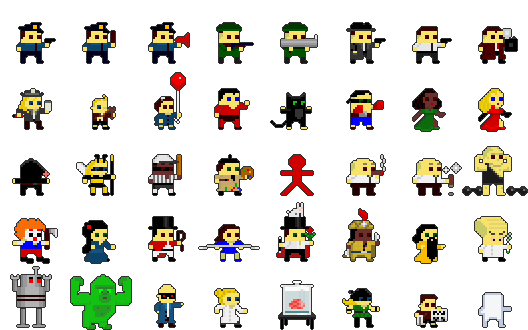
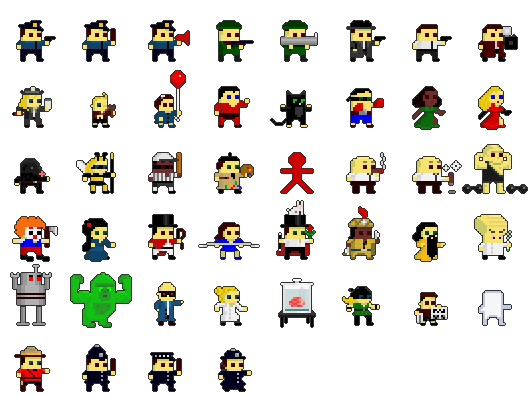
Added some new characters and improved others with a bit more shading.

diff --git a/lib/states/world.rb b/lib/states/world.rb
@@ -63,7 +63,7 @@ class World < Fidgit::GuiState
     entity_data = Array.new(200) do
       {
           "type" => "Character",
-          "image_index" => rand(40),
+          "image_index" => rand(44),
           "tile" => [rand(map_size), rand(map_size)],
           "facing" => ['left', 'right'].sample,
       }
@@ -108,22 +108,30 @@ class World < Fidgit::GuiState
 
   def create_gui
     horizontal spacing: 0, padding: 0 do
-      vertical spacing: 2, padding: 0 do
+      horizontal spacing: 2, padding: 0 do
         group do
           vertical padding: 1, spacing: 2, background_color: Color::BLACK, do
-            6.times do |i|
-              horizontal background_color: Color::BLUE, padding_h: 1, padding_v: 1 do
+            8.times do |i|
+              horizontal background_color: Color::BLUE, padding: 0 do
                 image_frame @map.entities[i].image, factor: 0.25, padding: 0, background_color: Color::GRAY
-                radio_button "##{i + 1}", i, align_v: :center do
-                  @mouse_selection.select nil
-                  @mouse_selection.select @map.entities[i]
+                vertical padding: 0, spacing: 0 do
+                  label "##{i + 1}", font_size: 4.5
+                  label "bar1", font_height: 3.5
+                  label "bar2", font_height: 3.5
+                  label "icons", font_height: 3.5
                 end
               end
             end
           end
         end
 
-        horizontal padding: 0 do
+        horizontal padding: 0, padding_top: 125 do
+          horizontal padding: 1, spacing: 2, background_color: Color::BLACK do
+            image_frame @map.entities[0].image, factor: 0.25, padding: 0, background_color: Color::GRAY
+            text_area text: "Detailed info about the currently selected super-chicken (of prodigious size).\nAnd superpower buttons ......",
+                      width: 100, font_height: 4
+          end
+
           vertical padding: 1, spacing: 2, background_color: Color::BLACK do
             horizontal padding: 0 do
               button "Undo", padding_h: 1, font_height: 5 do
@@ -138,12 +146,6 @@ class World < Fidgit::GuiState
             button "End turn" do
               end_turn
             end
-          end
-
-          horizontal padding: 1, spacing: 2, background_color: Color::BLACK do
-            image_frame @map.entities[0].image, factor: 0.25, padding: 0, background_color: Color::GRAY
-            text_area text: "Detailed info about the currently selected super-chicken (of prodigious size).\nAnd superpower buttons ......",
-                      width: 120, font_height: 4
           end
         end
       end

diff --git a/lib/objects/world_object.rb b/lib/objects/world_object.rb
@@ -33,6 +33,6 @@ class WorldObject < GameObject
   def draw
     @@shadow.draw_rot x, y, y - z, 0, 0.5, 0.5, 1, 0.5
 
-    @image.draw_rot x, y + 1.5, y - z, 0, 0.5, 1, OUTLINE_SCALE * factor_x, OUTLINE_SCALE
+    @image.draw_rot x, y + 2.5, y - z, 0, 0.5, 1, OUTLINE_SCALE * factor_x, OUTLINE_SCALE
   end
 end
